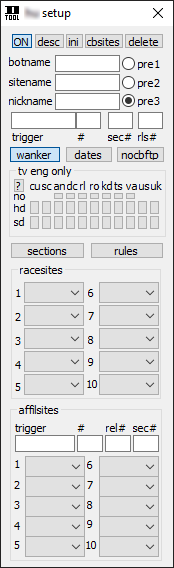
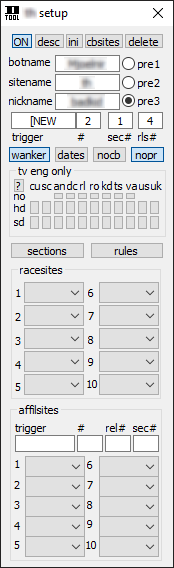
v9.6.2

diff --git a/SiteRules.html b/SiteRules.html
@@ -192,7 +192,7 @@ body,td,th {
         zB. <span class="Grüntext">+^</span>XViD bedeutet dann: Eintrag wird nur als Sektion behandelt und   wird geskippt, auch wenn in der Whitelist etwas dagegen spricht (solange   in dem Whitelisteintrag kein <span class="Grüntext">+</span> ist)<br />
         <br />
         <span class="Grüntext">SPORT = Hiermit kann man Sport Releases verbieten, zB. TV*SPORT oder TV*720|1080|SPORT|...<br />
-          </span>Was darunter fällt wird per /dteditsport eingestellt. Der Eintrag kann nicht kombiniert werden und muss immer alleine stehen.<br />
+          </span>Was darunter fällt wird per /dteditsport eingestellt bzw. /dtes<br />
         <br />
         <span class="Grüntext">!SCRIPTED = Hiermit kann man  Releases in TV Foreign Sektionen verbieten, die nicht scripted sind, zB. +TV-SP*!SCRIPTED<br />
         </span>Ist zwar speziell, dass man damit  Scripted erlaubt, es also auch auf die Whitelist könnte der Logik nach. Jedoch sollen ja nur alle Serien, die nicht Scripted sind, geskippt werden. Es ist also doch ein Blacklist Eintrag, nur eben per <span class="Grüntext">!SCRIPTED</span> mit Ausrufezeichen und muss an eine Sektion gebunden werden mit einem <span class="Grüntext">+</span>, weil damit nur Scripted erlaubt wird und nicht verboten.</p>
@@ -216,7 +216,7 @@ body,td,th {
         Verbotene Sektion in der Blacklist: <span class="Grüntext">^GAMES</span><br />
         Black- oder Whitelisteintrag mit Sektion: <span class="Grüntext">GAMES*clone*-GRP</span>, <span class="Grüntext">GAMES*German</span>, <span class="Grüntext">+GAMES*german*clone*</span>, <span class="Grüntext">GAMES*Grp|Grp|Grp</span><br />
         Einfacher Black- oder Whitelisteintrag: <span class="Grüntext">EMU, *720p*PsO , *dTV*GERMAN*</span> oder <span class="Grüntext">+PAL</span> (Bei PsO muss am Ende kein Sternchen stehen, weil die Group am Ende vom Release steht und somit dahinter nichts mehr kommt)<br />
-        Sport Skip Blacklist: <span class="Grüntext"><span class="Grüntext">tv-de*SPORT</span><br />
+        Sport Skip Blacklist: <span class="Grüntext"><span class="Grüntext">tv-de*SPORT</span> <span class="Grüntext">oder TV*720|1080|SPORT|...</span><br />
         Regex in Blacklist oder Whitelist, zB. Shows mit Datum: <span class="Grüntext">~[1-2][0-9]-[0-1][0-9]-[0-3][0-9]</span> oder <span class="Grüntext">~+[1-2][0-9]-[0-1][0-9]-[0-3][0-9]</span> oder <br />
         <span class="Grüntext">~tv'[1-2][0-9]-[0-1][0-9]-[0-3][0-9]</span> oder <span class="Grüntext">~tv'&lt;regex&gt;°&lt;regex&gt;°&lt;regex&gt;°...</span> (&lt;regex&gt; steht für einen Regex Eintrag)</p>
       <p><strong>Affillist</strong>e<br />

diff --git a/SiteSetup.html b/SiteSetup.html
@@ -148,20 +148,23 @@ body {
 Man bekommt aber auch noch einen freundlichen Hinweis wenn man es 
 aktiviert.<br>
       <strong>-
-      nocbftp</strong><br>
-      Damit schaltet man bei dieser Site speziell von cbftp auf FTPRush, wenn cbftp Standard ist.<br>
-      <strong>- tv eng only</strong><br>
-      Es heisst &quot;eng only&quot;, also aktiviert man mit den Buttons  das was erlaubt ist, aufgeteilt in hd und sd. <br />
-(Abkürzungen: cu=current, sc=scripted, 
-an=animation, dc=docu, rl=reality, ro=romance, kd=kids, us=USA/CA, uk= UnitedKingdom)<br />
- Man kann die &quot;eng only&quot;-Funktion  mit dem schmalen Button darüber auch umdrehen. Ist dieser aktiviert, wird ein fehlendes Genre (an/dc/rl/ro/kd) geskippt, wenn der Button bei hd/sd nicht aktiviert ist. Dann macht es einen Unterschied, ob man die Haken nicht gesetzt hat. Aktiviert man dann zB. das Genre Kids nicht, wird geskippt sobald ein Release mit Genre Kids vorkommt.</p>
+      nocb</strong><br>
+      Damit schaltet man auf dieser Site speziell von cbftp auf FTPRush, wenn cbftp Standard ist.<br />
+      <strong>-
+      nopr</strong><br />
+Damit schaltet man auf dieser Site den Pre-Recheck aus. Hilfreich wenn zB. Archiv filled wird.<br>
+        <strong>- tv eng only</strong><br>
+        Es heisst &quot;eng only&quot;, also aktiviert man mit den Buttons  das was erlaubt ist, aufgeteilt in hd und sd. <br />
+        (Abkürzungen: cu=current | sc=scripted |
+        an=animation | dc=docu | rl=reality | ro=romance | kd=kids | ts=tvshow | va=variety | us=USA/CA | uk=UnitedKingdom)<br />
+        Man kann die &quot;eng only&quot;-Funktion  mit dem schmalen Button darüber auch umdrehen. Ist dieser aktiviert, wird ein fehlendes Genre (an/dc/rl/ro/kd/ts/va) geskippt, wenn der Button bei hd/sd nicht aktiviert ist. Dann macht es einen Unterschied, ob man die Haken nicht gesetzt hat. Aktiviert man dann zB. das Genre Kids nicht, wird geskippt sobald ein Release mit Genre Kids vorkommt.</p>
       <p class="normalschrift">- <strong>racesites/affils</strong><br />
         Hier werden die Sites eingetragen zu denen gefillt werden soll. Wählt man den Eintrag -none- wird die Site wieder entfernt. Wählt man den Eintrag -cb.rmv- wird die Site auch in cbftp von den targets entfernt.<br />
         Bei Affils ist die config  ähnlich wie 
 oben bei den races, einfach den Trigger eintragen und die Zahlen der 
 Wörter und die Racesites.<br />
 <br />
-      </p>
+    </p>
       <p class="normalschrift"><strong>Sections</strong></p>
       <p class="normalschrift">- Man startet ohne Sektionen und muss sie
  erstmal unten über das Sektionsmanagement per "add new section" selbst 

diff --git a/index.html b/index.html
@@ -143,7 +143,7 @@ body {
       <span class="KleinerText"><a href="https://d--tool-github-io.translate.goog/index.html?_x_tr_sl=de&amp;_x_tr_tl=en&amp;_x_tr_hl=de&amp;_x_tr_pto=wapp" class="helpdesk1"><span class="link-nodecoration-grey-10px"><br />
         <br />
         translate me</span></a></span></p></td>
-    <td width="228" valign="top"><p class="mini_text"><a href="Latest.html" class="link-normal">dt.v.9.5.7</a><br />
+    <td width="228" valign="top"><p class="mini_text"><a href="Latest.html" class="link-normal">dt.v.9.6.2</a><br />
         <br />
         <br />
       </p></td>
